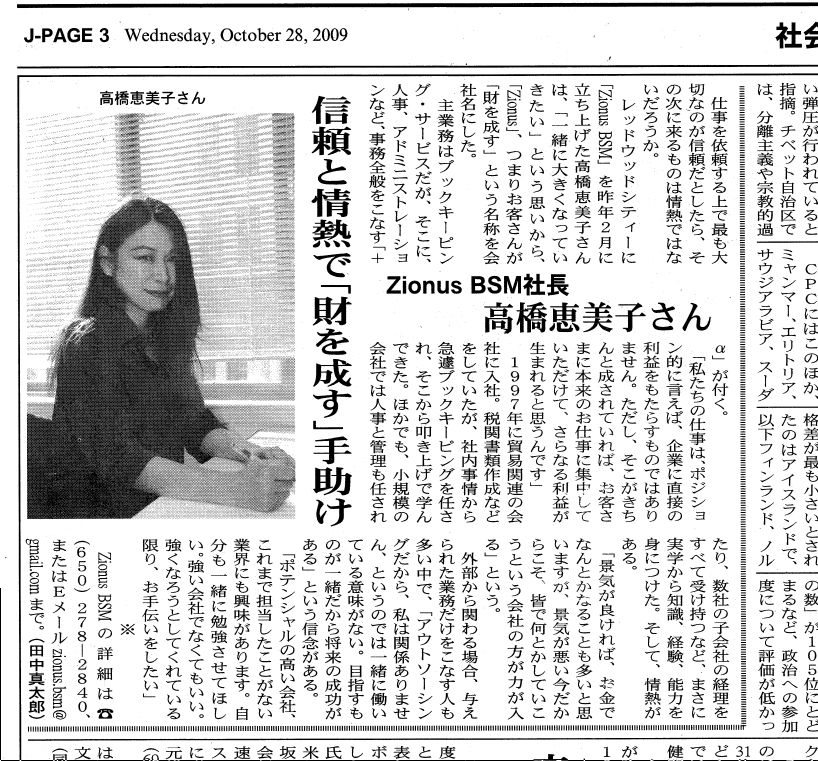
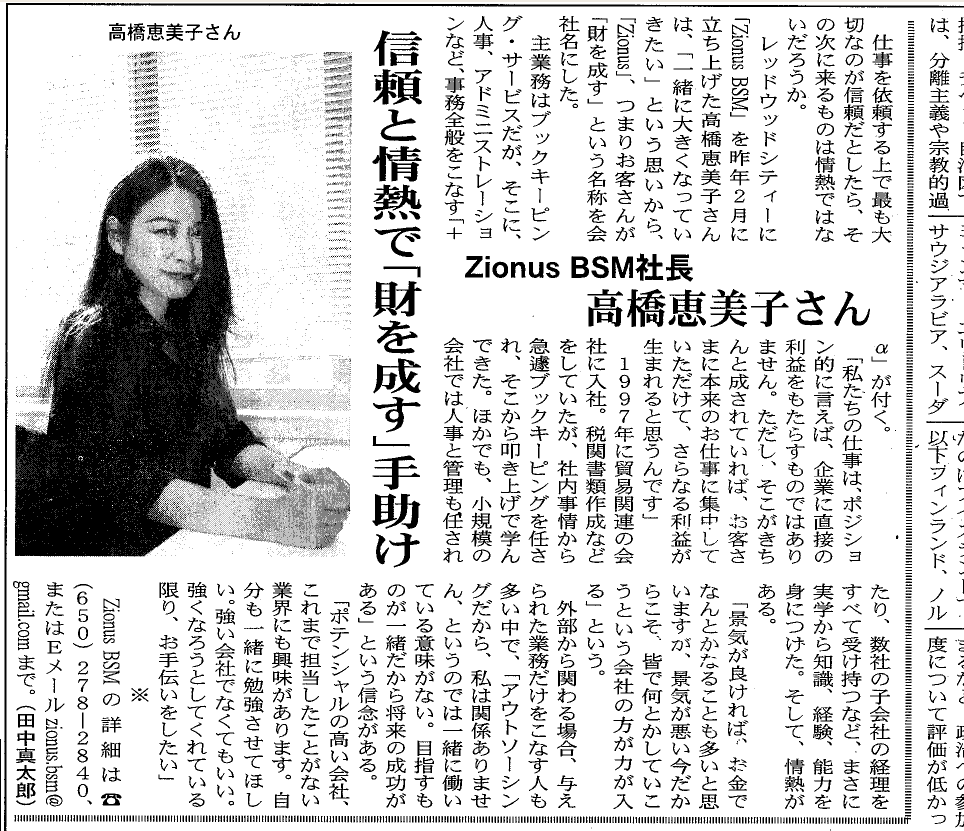
Fixed news paper articles dialog.
git-svn-id: https://koholasys.springloops.com/source/zionusbsm/branches/sharedserver@29 b66679b3-fe4a-4674-a71e-25c3c480966b

diff --git a/htdoc/css/src/zionusbsm.css b/htdoc/css/src/zionusbsm.css
@@ -315,22 +315,44 @@ div#footer {
     text-indent: 1em;
 }
 
-
-#overlay, #overlay2 { 
+#overlay { 
     /* must be initially hidden */ 
     display:none; 
      
     /* styling */ 
     background-color:#F6E8B1;
     border: 10px solid #677E52;
-    height:560px; 
     width: 640px;
+    height:560px; 
      
     /* CSS3 styling for latest browsers */ 
     -moz-box-shadow:0 0 90px #000; 
     -webkit-box-shadow: 0 0 90px #000;     
 } 
- 
+
+#overlay-article, #overlay_article2 {
+    /* must be initially hidden */ 
+    display:none; 
+     
+    /* styling */ 
+    background-color:#F6E8B1;
+    border: 6px solid #677E52;
+     
+    /* CSS3 styling for latest browsers */ 
+    -moz-box-shadow:0 0 90px #000; 
+    -webkit-box-shadow: 0 0 90px #000;     
+}
+
+#overlay-article {
+    width:964px; 
+    height:831px; 
+}
+
+#overlay-article2 {
+    width:1086px; 
+    height:832px; 
+}
+
 /* close button positioned on upper right corner */ 
 #overlay .close { 
     z-index:20000; 
@@ -339,13 +361,34 @@ div#footer {
     right:-15px; 
     top:-15px; 
     cursor:pointer; 
-    height:35px; 
     width:35px; 
+    height:35px; 
+} 
+
+#overlay-article .close, #overlay-article2.close { 
+    z-index:20000; 
+    background-image:url(../../img/close.png); 
+    position:absolute; 
+    left:-15px; 
+    top:-15px; 
+    cursor:pointer; 
+    width:35px; 
+    height:35px; 
 } 
  
-#contentWrap { 
-    height:560px; 
+#overlay .contentWrap { 
     width:640px; 
+    height:560px; 
+}
+
+#overlay-article .contentWrap { 
+    width:964px; 
+    height:831px; 
+}
+
+#overlay-article2 .contentWrap { 
+    width:1086px; 
+    height:832px; 
 }
 
 #wufoo{

diff --git a/htdoc/system/application/views/about.php b/htdoc/system/application/views/about.php
@@ -2,8 +2,8 @@
 $(function() {
     $("#article1").overlay({
         expose: '#BDB9B9', 
-        top: 0,
-        left: 0,
+        top: 30,
+        left: 20,
         onBeforeLoad: function() {
             // grab wrapper element inside content
             var wrap = this.getOverlay().find(".contentWrap");
@@ -13,8 +13,8 @@ $(function() {
     });
     $("#article2").overlay({
         expose: '#BDB9B9', 
-        top: 0,
-        left: 0,
+        top: 30,
+        left: 20,
         onBeforeLoad: function() {
             // grab wrapper element inside content
             var wrap = this.getOverlay().find(".contentWrap");
@@ -35,8 +35,8 @@ $(function() {
                     <div class="notice">
                     <h4><strong>%%T_005%%</strong></h4>
                     <ul>
-                    <li><a href="<?php echo site_url('article/index/hokubei');?>" rel="#overlay2" id="article1">%%T_006%%</a></li>
-                    <li><a href="<?php echo site_url('article/index/logo');?>" rel="#overlay2" id="article2">%%T_007%%</a></li>
+                    <li><a href="<?php echo site_url('article/index/hokubei');?>" rel="#overlay-article" id="article1">%%T_006%%</a></li>
+                    <li><a href="<?php echo site_url('article/index/sportsj');?>" rel="#overlay-article" id="article2">%%T_007%%</a></li>
                     <ul>
                     </div>
                 </div>
@@ -47,12 +47,5 @@ $(function() {
             </div>
         </div>
     </div>
-    <!-- overlayed element -->
-    <div class="apple_overlay" id="overlay2">
-
-    <!-- the external content is loaded inside this tag -->
-    <div class="contentWrap"></div>
-
-</div
 </div>
 

diff --git a/htdoc/system/application/views/home.php b/htdoc/system/application/views/home.php
@@ -32,7 +32,7 @@ $(document).ready(function() {
         top: '3%',
         onBeforeLoad: function() { 
             // grab wrapper element inside content 
-            var wrap = this.getContent().find("#contentWrap"); 
+            var wrap = this.getContent().find(".contentWrap"); 
             // load the page specified in the trigger 
             wrap.load(this.getTrigger().attr("href")); 
         }, 
@@ -334,7 +334,12 @@ if ((isset($this->config) AND $this->config->item("dev_mode")))
 <!-- overlayed element -->
 <div id="overlay"> 
     <!-- the external content is loaded inside this tag --> 
-    <div id="contentWrap"></div> 
+    <div class="contentWrap"></div> 
+</div>
+<!-- overlayed element -->
+<div id="overlay-article">
+    <!-- the external content is loaded inside this tag -->
+    <div class="contentWrap"></div>
 </div>
 </body>
 </html>
